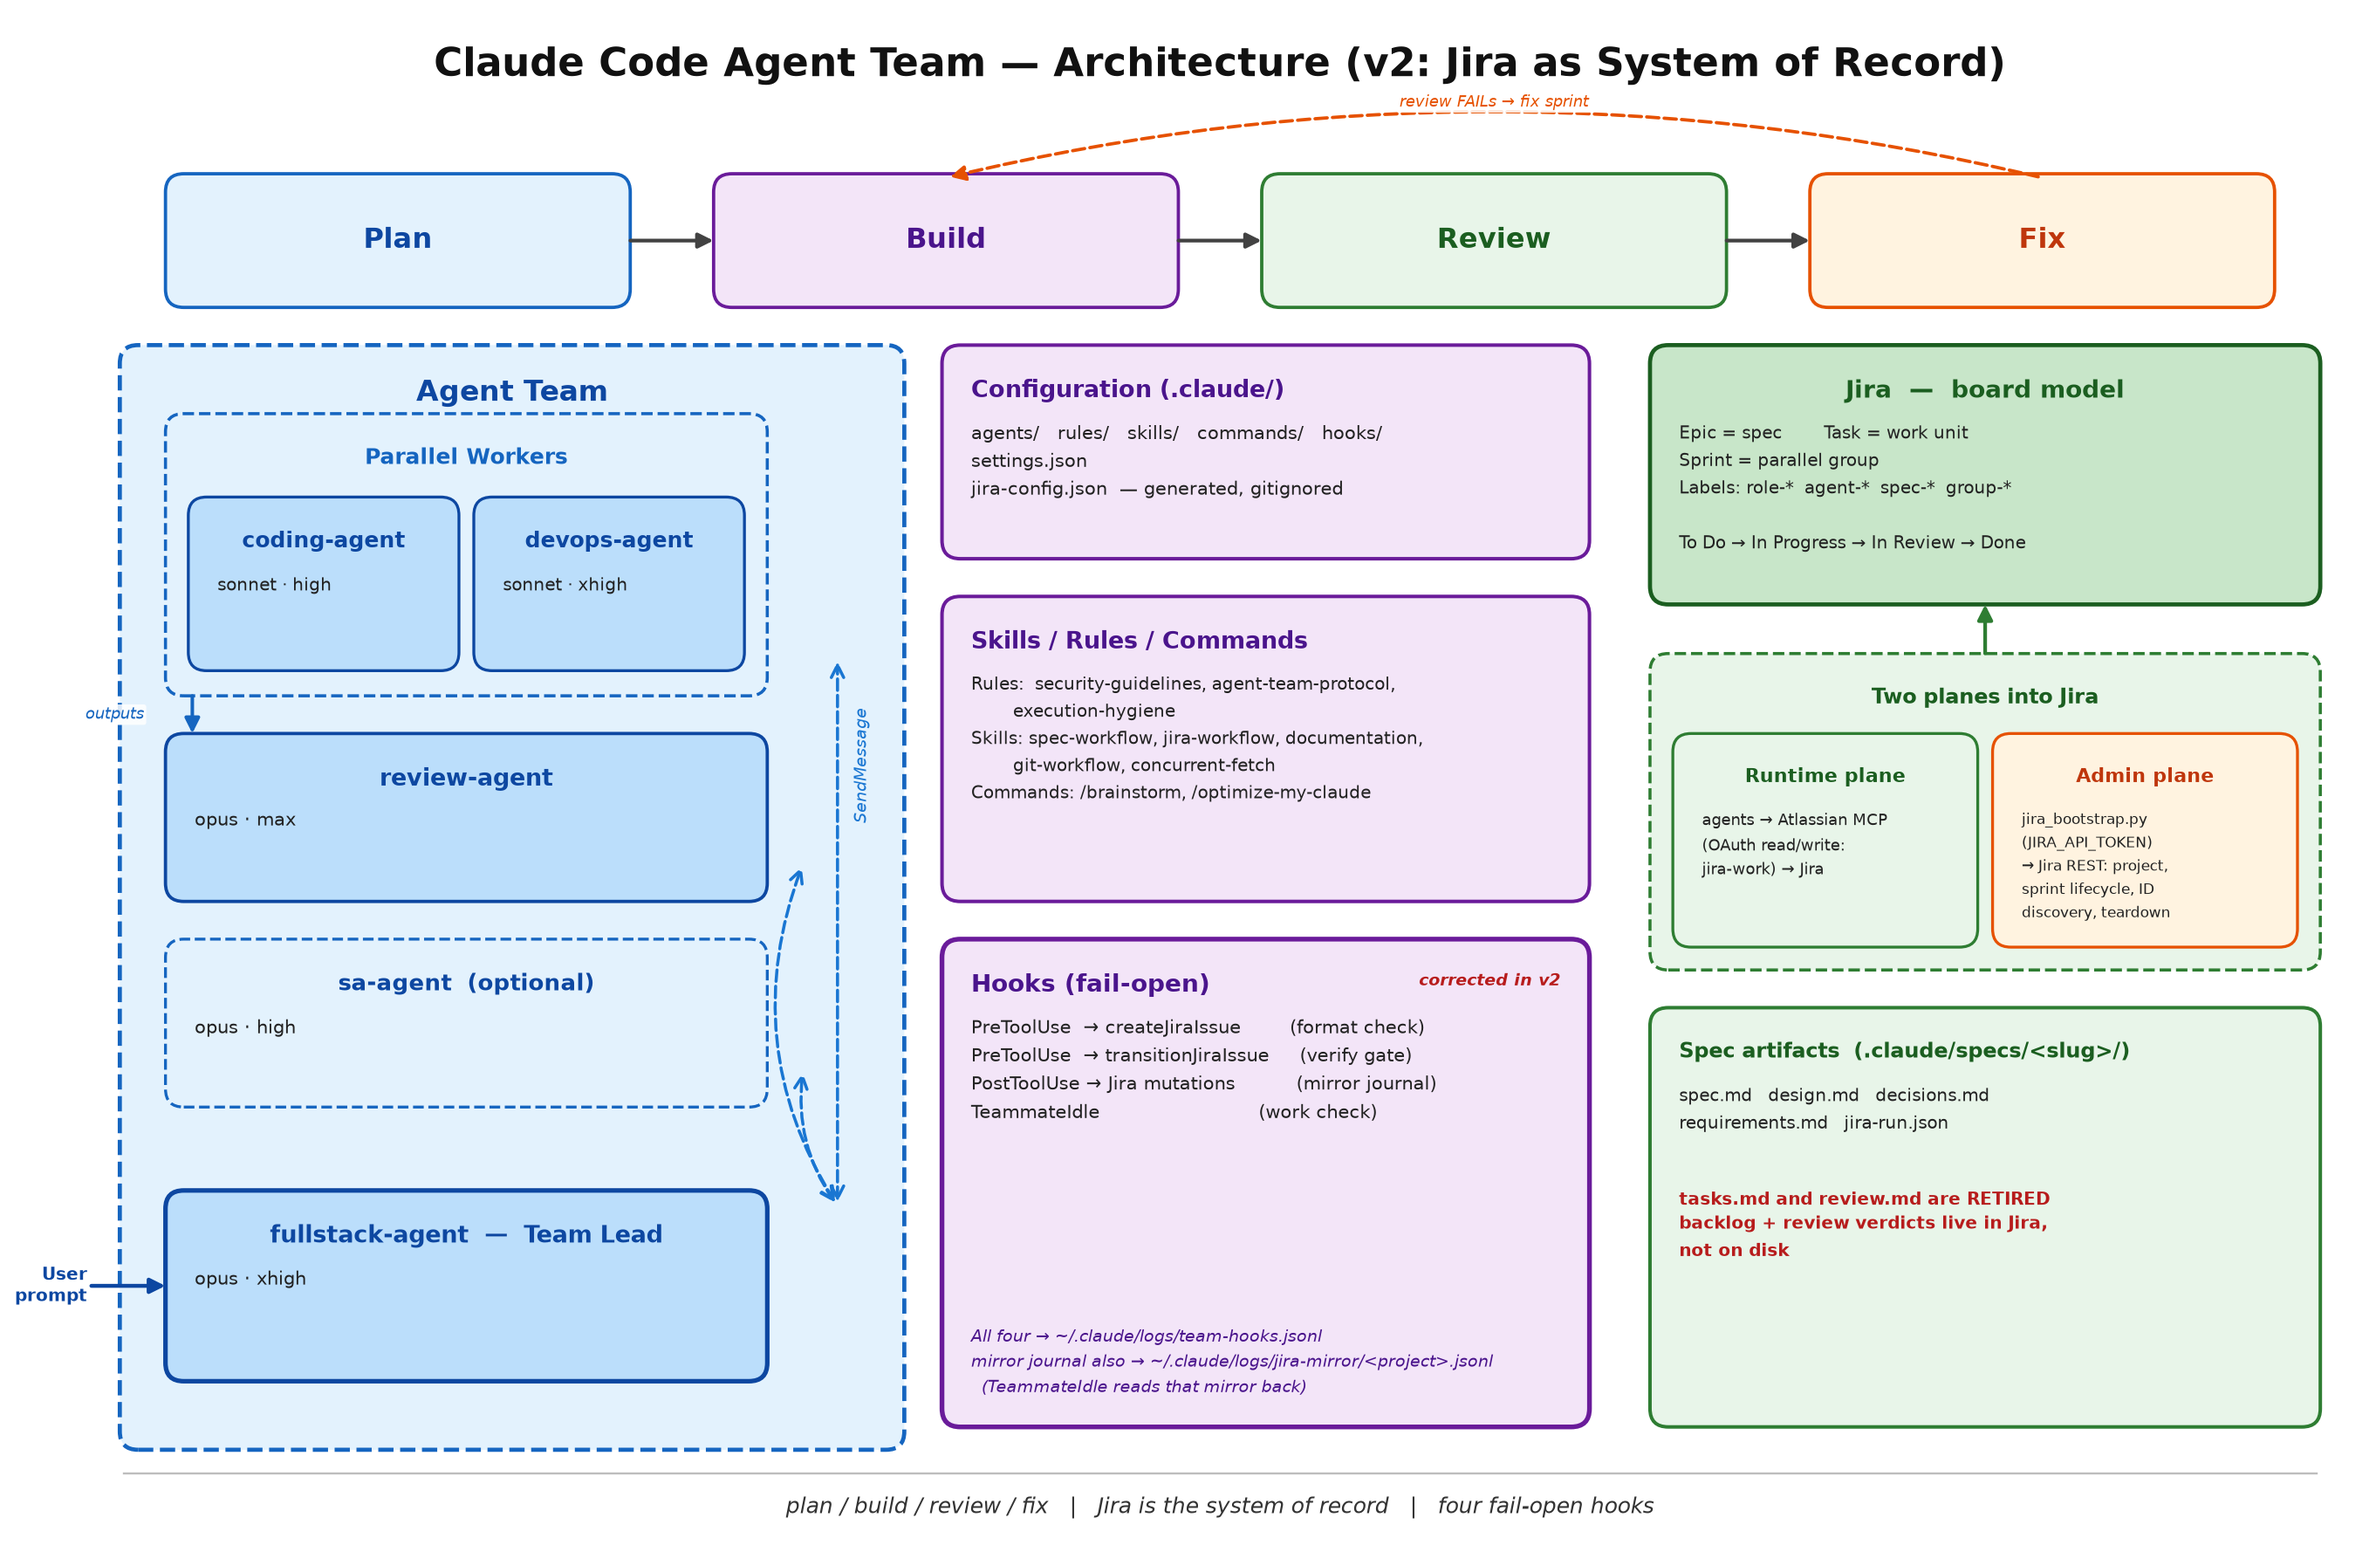
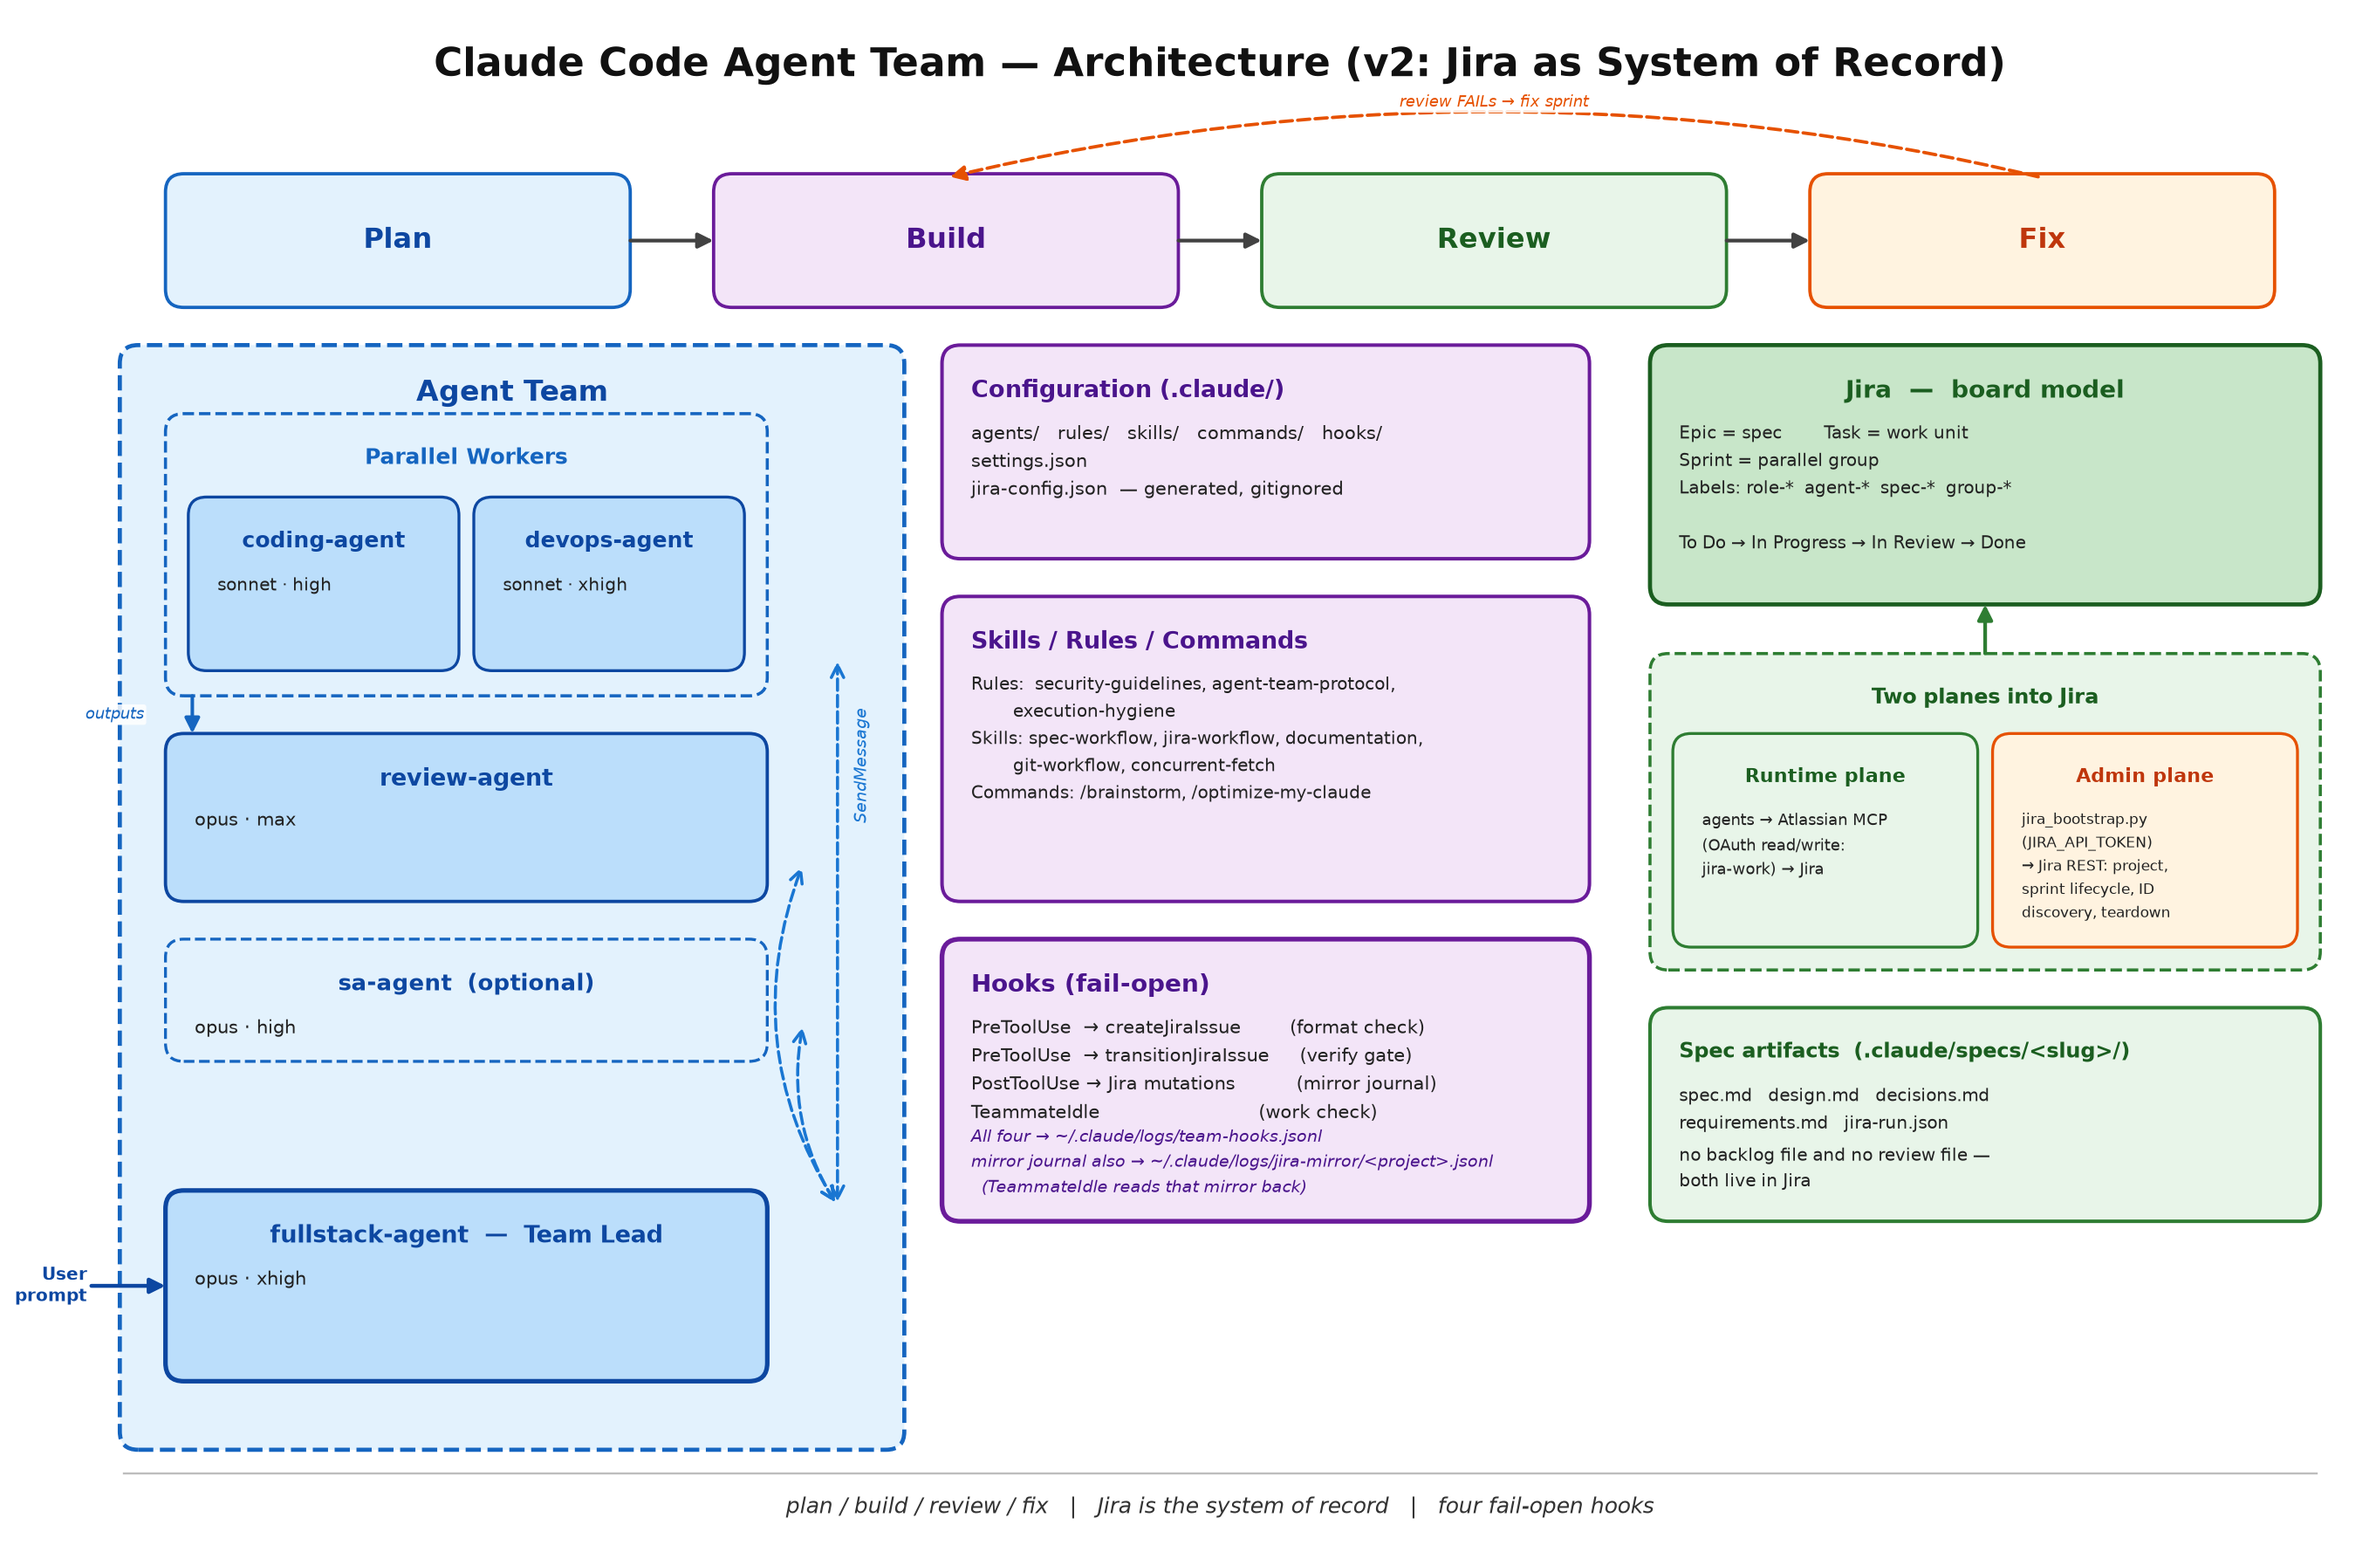
docs(diagram): drop meta-commentary annotations and tighten box padding
Remove the "corrected in v2" red note (irrelevant a year from now)
and reword the retired-artifacts callout to a neutral, non-alarmist
note. Shrink the Hooks, Spec artifacts, and sa-agent boxes to remove
dead vertical space, keeping internal padding consistent.

Changed region(s): [[0.3746, 0.7115, 0.874, 0.928], [0.5931, 0.6187, 0.6555, 0.6496], [0.3122, 0.6805, 0.3434, 0.7115]]

diff --git a/docs/generate_architecture_diagram.py b/docs/generate_architecture_diagram.py
@@ -162,7 +162,7 @@ def build():
         title="review-agent", title_size=11.5, title_align="center",
         body="opus · max", body_size=8.8)
 
-    sa_y, sa_h = 38, 14
+    sa_y, sa_h = 42, 10
     box(ax, inner_x, sa_y, inner_w, sa_h, BLUE, dashed=True, lw=1.4,
         title="sa-agent  (optional)", title_size=11, title_align="center",
         body="opus · high", body_size=8.8)
@@ -218,7 +218,7 @@ def build():
              "Commands: /brainstorm, /optimize-my-claude",
         body_size=8.5)
 
-    hooks_y, hooks_h = 10, 42
+    hooks_y, hooks_h = 28, 24
     box(ax, c2_x, hooks_y, c2_w, hooks_h, PURPLE, lw=2.3,
         title="Hooks (fail-open)", title_size=12,
         body="PreToolUse  → createJiraIssue        (format check)\n"
@@ -226,10 +226,7 @@ def build():
              "PostToolUse → Jira mutations          (mirror journal)\n"
              "TeammateIdle                          (work check)",
         body_size=8.8)
-    ax.text(c2_x + c2_w - 2.2, hooks_y + hooks_h - 2.6, "corrected in v2",
-             fontsize=8, ha="right", va="top", color=RED_NOTE, fontweight="bold",
-             style="italic")
-    ax.text(c2_x + 2.2, hooks_y + 8.6,
+    ax.text(c2_x + 2.2, hooks_y + 8.1,
              "All four → ~/.claude/logs/team-hooks.jsonl\n"
              "mirror journal also → ~/.claude/logs/jira-mirror/<project>.jsonl\n"
              "  (TeammateIdle reads that mirror back)",
@@ -273,16 +270,15 @@ def build():
     arrow(ax, (c3_x + c3_w / 2, planes_y + planes_h), (c3_x + c3_w / 2, jira_y),
           color="#2E7D32", lw=1.8)
 
-    art_y, art_h = 10, 36
+    art_y, art_h = 28, 18
     box(ax, c3_x, art_y, c3_w, art_h, GREEN, lw=1.7,
         title="Spec artifacts  (.claude/specs/<slug>/)", title_size=10.3,
         body="spec.md   design.md   decisions.md\n"
              "requirements.md   jira-run.json",
         body_size=8.6)
-    ax.text(c3_x + 2.2, art_y + art_h - 15.2,
-             "tasks.md and review.md are RETIRED\n"
-             "backlog + review verdicts live in Jira,\nnot on disk",
-             fontsize=8.3, ha="left", va="top", color=RED_NOTE, fontweight="bold",
+    ax.text(c3_x + 2.2, art_y + art_h - 11.5,
+             "no backlog file and no review file —\nboth live in Jira",
+             fontsize=8.3, ha="left", va="top", color="#222222",
              linespacing=1.5)
 
     # ======================================================================
